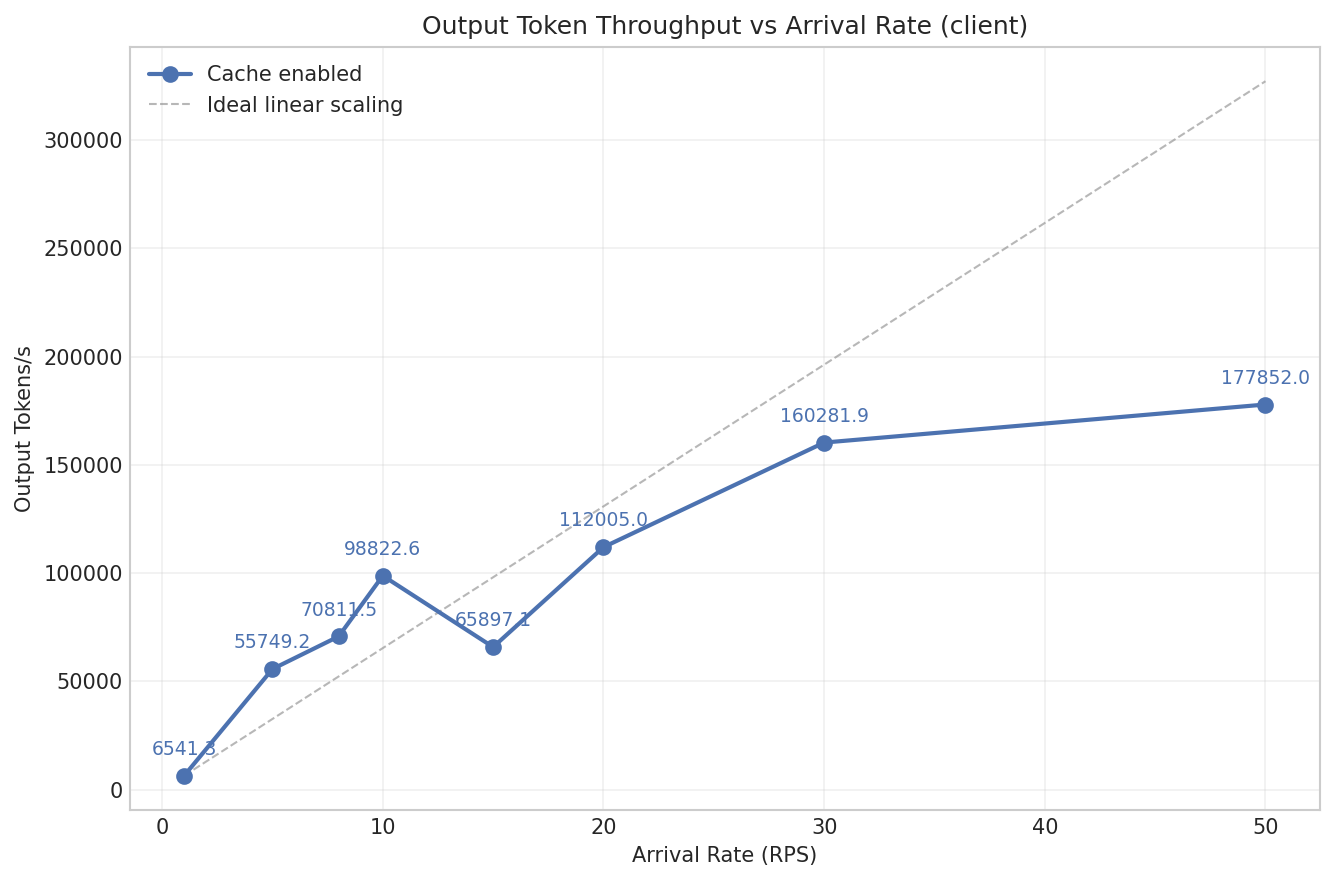
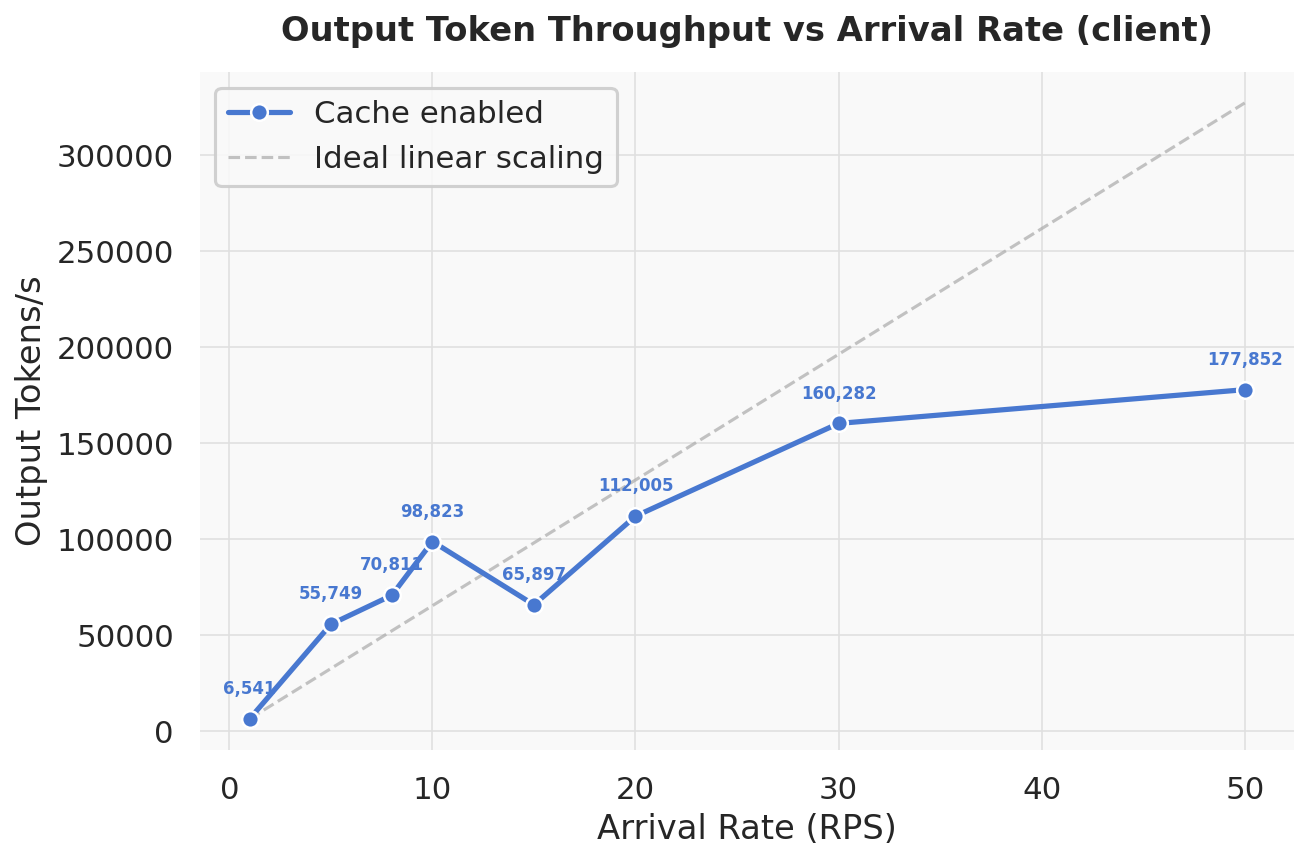
use seaborn for plots

diff --git a/benchmarks/plotting/realistic_plotter.py b/benchmarks/plotting/realistic_plotter.py
@@ -21,6 +21,7 @@ import matplotlib
 matplotlib.use("Agg")
 import matplotlib.pyplot as plt
 import numpy as np
+import seaborn as sns
 
 VALID_STATS = ("mean", "p50", "p90", "p99")
 
@@ -28,16 +29,15 @@ VALID_STATS = ("mean", "p50", "p90", "p99")
 # Style helpers
 # ---------------------------------------------------------------------------
 
-def _apply_style() -> None:
-    for style in ("seaborn-v0_8-whitegrid", "seaborn-whitegrid"):
-        try:
-            plt.style.use(style)
-            return
-        except OSError:
-            continue
-
-
-_apply_style()
+sns.set_theme(style="whitegrid", context="talk", palette="muted", font_scale=0.9)
+plt.rcParams.update({
+    "figure.facecolor": "white",
+    "axes.facecolor": "#f9f9f9",
+    "grid.color": "#e0e0e0",
+    "grid.linewidth": 0.8,
+    "axes.edgecolor": "#cccccc",
+    "axes.linewidth": 0.8,
+})
 
 
 class RealisticPlotter:
@@ -129,9 +129,10 @@ class RealisticPlotter:
 
         fig, ax = plt.subplots(figsize=(9, 6))
 
+        palette = sns.color_palette("muted")
         series_styles = {
-            "cache_disabled": {"color": "#C44E52", "label": "Cache disabled"},
-            "cache_enabled":  {"color": "#4C72B0", "label": "Cache enabled"},
+            "cache_disabled": {"color": palette[3], "label": "Cache disabled"},
+            "cache_enabled":  {"color": palette[0], "label": "Cache enabled"},
         }
 
         all_rps: list[float] = []
@@ -152,13 +153,14 @@ class RealisticPlotter:
                     tput = cond["client_side_throughput"]["output_tokens_per_second"]
                 tput_vals.append(tput)
 
-            ax.plot(rps_vals, tput_vals, "o-", color=style["color"], lw=2,
-                    markersize=7, zorder=3, label=style["label"])
+            ax.plot(rps_vals, tput_vals, "o-", color=style["color"], lw=2.5,
+                    markersize=8, zorder=3, label=style["label"],
+                    markeredgecolor="white", markeredgewidth=1.2)
 
             for x, y in zip(rps_vals, tput_vals):
-                ax.annotate(f"{y:.1f}", (x, y), textcoords="offset points",
-                            xytext=(0, 10), ha="center", fontsize=9,
-                            color=style["color"])
+                ax.annotate(f"{y:,.0f}", (x, y), textcoords="offset points",
+                            xytext=(0, 12), ha="center", fontsize=8,
+                            color=style["color"], fontweight="bold")
 
             all_rps.extend(rps_vals)
             all_tput.extend(tput_vals)
@@ -166,19 +168,18 @@ class RealisticPlotter:
         # Dashed diagonal reference line (ideal linear scaling)
         if all_rps:
             rps_range = np.linspace(min(all_rps), max(all_rps), 50)
-            # Scale so the ideal line starts at the lowest observed throughput
-            # at the lowest RPS
             min_rps = min(all_rps)
             min_tput = min(all_tput) if all_tput else 1.0
             ideal = rps_range * (min_tput / min_rps) if min_rps > 0 else rps_range
-            ax.plot(rps_range, ideal, "--", color="#888888", lw=1, alpha=0.6,
+            ax.plot(rps_range, ideal, "--", color="#aaaaaa", lw=1.5, alpha=0.7,
                     label="Ideal linear scaling", zorder=1)
 
         ax.set_xlabel("Arrival Rate (RPS)")
         ax.set_ylabel("Output Tokens/s")
-        ax.set_title(f"Output Token Throughput vs Arrival Rate ({source})")
-        ax.legend(loc="best")
-        ax.grid(True, alpha=0.3)
+        ax.set_title(f"Output Token Throughput vs Arrival Rate ({source})",
+                      fontweight="bold", pad=15)
+        ax.legend(loc="best", framealpha=0.9, edgecolor="#cccccc")
+        sns.despine(ax=ax, left=True, bottom=True)
 
         plt.tight_layout()
         fpath = os.path.join(out_dir, f"throughput_vs_arrival_rate_{source}.png")
@@ -201,9 +202,10 @@ class RealisticPlotter:
 
         fig, ax = plt.subplots(figsize=(9, 6))
 
+        palette = sns.color_palette("muted")
         series_styles = {
-            "cache_disabled": {"color": "#C44E52", "label": "Cache disabled"},
-            "cache_enabled":  {"color": "#4C72B0", "label": "Cache enabled"},
+            "cache_disabled": {"color": palette[3], "label": "Cache disabled"},
+            "cache_enabled":  {"color": palette[0], "label": "Cache enabled"},
         }
 
         for group_key, pairs in groups.items():
@@ -218,19 +220,21 @@ class RealisticPlotter:
                              .get("max_depth", 0))
                 depth_vals.append(depth)
 
-            ax.plot(rps_vals, depth_vals, "o-", color=style["color"], lw=2,
-                    markersize=7, zorder=3, label=style["label"])
+            ax.plot(rps_vals, depth_vals, "o-", color=style["color"], lw=2.5,
+                    markersize=8, zorder=3, label=style["label"],
+                    markeredgecolor="white", markeredgewidth=1.2)
 
             for x, y in zip(rps_vals, depth_vals):
                 ax.annotate(f"{y}", (x, y), textcoords="offset points",
-                            xytext=(0, 10), ha="center", fontsize=9,
-                            color=style["color"])
+                            xytext=(0, 12), ha="center", fontsize=8,
+                            color=style["color"], fontweight="bold")
 
         ax.set_xlabel("Arrival Rate (RPS)")
         ax.set_ylabel("Max Queue Depth")
-        ax.set_title("Max Queue Depth vs Arrival Rate")
-        ax.legend(loc="best")
-        ax.grid(True, alpha=0.3)
+        ax.set_title("Max Queue Depth vs Arrival Rate",
+                      fontweight="bold", pad=15)
+        ax.legend(loc="best", framealpha=0.9, edgecolor="#cccccc")
+        sns.despine(ax=ax, left=True, bottom=True)
 
         plt.tight_layout()
         fpath = os.path.join(out_dir, "queue_depth_vs_arrival_rate.png")
@@ -243,18 +247,24 @@ class RealisticPlotter:
     # ------------------------------------------------------------------
 
     # 6-line style matrix: group x percentile
-    TTFT_STYLES = {
-        "cache_disabled": {
-            "p50": {"color": "#C44E52", "linestyle": "-",  "label": "No cache p50"},
-            "p90": {"color": "#E07B7B", "linestyle": "--", "label": "No cache p90"},
-            "p99": {"color": "#F0A8A8", "linestyle": ":",  "label": "No cache p99"},
-        },
-        "cache_enabled": {
-            "p50": {"color": "#4C72B0", "linestyle": "-",  "label": "Cache p50"},
-            "p90": {"color": "#7BA3D4", "linestyle": "--", "label": "Cache p90"},
-            "p99": {"color": "#A8C4E0", "linestyle": ":",  "label": "Cache p99"},
-        },
-    }
+    @staticmethod
+    def _ttft_styles():
+        palette = sns.color_palette("muted")
+        red, blue = palette[3], palette[0]
+        red_light = sns.light_palette(red, n_colors=4)
+        blue_light = sns.light_palette(blue, n_colors=4)
+        return {
+            "cache_disabled": {
+                "p50": {"color": red,           "linestyle": "-",  "label": "No cache p50"},
+                "p90": {"color": red_light[2],  "linestyle": "--", "label": "No cache p90"},
+                "p99": {"color": red_light[1],  "linestyle": ":",  "label": "No cache p99"},
+            },
+            "cache_enabled": {
+                "p50": {"color": blue,           "linestyle": "-",  "label": "Cache p50"},
+                "p90": {"color": blue_light[2],  "linestyle": "--", "label": "Cache p90"},
+                "p99": {"color": blue_light[1],  "linestyle": ":",  "label": "Cache p99"},
+            },
+        }
 
     def plot_ttft_vs_arrival_rate(
         self,
@@ -270,13 +280,15 @@ class RealisticPlotter:
 
         fig, ax = plt.subplots(figsize=(9, 6))
 
+        ttft_styles = self._ttft_styles()
+
         for group_key, pairs in groups.items():
             if not pairs:
                 continue
             rps_vals = [rps for rps, _ in pairs]
 
             for pct in percentiles:
-                style = self.TTFT_STYLES[group_key][pct]
+                style = ttft_styles[group_key][pct]
                 ttft_vals = []
                 saturated_mask = []
 
@@ -285,8 +297,9 @@ class RealisticPlotter:
                     saturated_mask.append(cond.get("saturation_detected", False))
 
                 ax.plot(rps_vals, ttft_vals, marker="o", color=style["color"],
-                        linestyle=style["linestyle"], lw=2, markersize=6,
-                        zorder=3, label=style["label"])
+                        linestyle=style["linestyle"], lw=2.5, markersize=7,
+                        zorder=3, label=style["label"],
+                        markeredgecolor="white", markeredgewidth=1.0)
 
                 # Mark saturated points with a star
                 for i, (x, y, sat) in enumerate(
@@ -298,9 +311,9 @@ class RealisticPlotter:
 
         ax.set_xlabel("Arrival Rate (RPS)")
         ax.set_ylabel("TTFT (ms)")
-        ax.set_title("TTFT vs Arrival Rate")
-        ax.legend(loc="best", fontsize=8)
-        ax.grid(True, alpha=0.3)
+        ax.set_title("TTFT vs Arrival Rate", fontweight="bold", pad=15)
+        ax.legend(loc="best", fontsize=8, framealpha=0.9, edgecolor="#cccccc")
+        sns.despine(ax=ax, left=True, bottom=True)
 
         plt.tight_layout()
         fpath = os.path.join(out_dir, "ttft_vs_arrival_rate.png")
